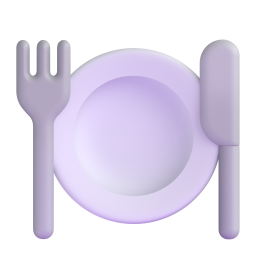
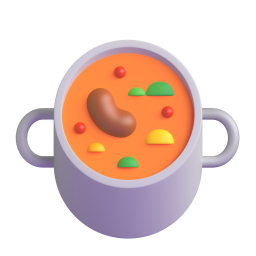
style(proximite): images services haute qualité + dégradés lisibles
- Images Unsplash des 20 services en w=1000 q=85 (au lieu de w=800 q=80)
- Dégradés overlay bottom-up plus lisibles sur les cartes
- Icônes 3D réparation/restaurant retouchées

diff --git a/src/pg/Proximite.tsx b/src/pg/Proximite.tsx
@@ -67,7 +67,7 @@ const getPriorityServices = (stats: any, t: TFn): ServiceCardItem[] => [
     count: stats.boutiques,
     path: "/proximite/boutiques",
     description: t("proximity.svc.boutique.desc"),
-    image: "https://images.unsplash.com/photo-1441986300917-64674bd600d8?auto=format&fit=crop&w=800&q=80",
+    image: "https://images.unsplash.com/photo-1441986300917-64674bd600d8?auto=format&fit=crop&w=1000&q=85",
     logoImage: "/service-icons/logo-boutique.jpeg",
     accent: "#04439e"
   },
@@ -78,7 +78,7 @@ const getPriorityServices = (stats: any, t: TFn): ServiceCardItem[] => [
     count: stats.restaurant,
     path: "/services-proximite?type=restaurant",
     description: t("proximity.svc.restaurant.desc"),
-    image: "https://images.unsplash.com/photo-1517248135467-4c7edcad34c4?auto=format&fit=crop&w=800&q=80",
+    image: "https://images.unsplash.com/photo-1517248135467-4c7edcad34c4?auto=format&fit=crop&w=1000&q=85",
     logoImage: "/service-icons/logo-resto.jpeg",
     accent: "#e85d04"
   },
@@ -89,7 +89,7 @@ const getPriorityServices = (stats: any, t: TFn): ServiceCardItem[] => [
     count: stats.reparation,
     path: "/services-proximite?type=reparation",
     description: t("proximity.svc.reparation.desc"),
-    image: "https://images.unsplash.com/photo-1581092580497-e0d23cbdf1dc?auto=format&fit=crop&w=800&q=80",
+    image: "https://images.unsplash.com/photo-1581092580497-e0d23cbdf1dc?auto=format&fit=crop&w=1000&q=85",
     logoImage: "/service-icons/icon-reparation.png",
     accent: "#ff4000"
   },
@@ -102,7 +102,6 @@ const getPriorityServices = (stats: any, t: TFn): ServiceCardItem[] => [
     description: t("proximity.svc.immobilier.desc"),
     image: "https://images.unsplash.com/photo-1600585154526-990dced4db0d?auto=format&fit=crop&w=1200&q=80",
     logoImage: "/service-icons/logo-immobilier.jpeg",
-    overlayGradient: "linear-gradient(120deg,rgba(3,105,161,0.18) 0%,rgba(191,219,254,0.68) 100%)",
     accent: "#04439e"
   },
   {
@@ -112,7 +111,7 @@ const getPriorityServices = (stats: any, t: TFn): ServiceCardItem[] => [
     count: stats.sante,
     path: "/services-proximite?type=sante",
     description: t("proximity.svc.sante.desc"),
-    image: "https://images.unsplash.com/photo-1576091160550-2173dba999ef?auto=format&fit=crop&w=800&q=80",
+    image: "https://images.unsplash.com/photo-1576091160550-2173dba999ef?auto=format&fit=crop&w=1000&q=85",
     logoImage: "/service-icons/icon-sante.png",
     accent: "#ff4000"
   },
@@ -123,7 +122,7 @@ const getPriorityServices = (stats: any, t: TFn): ServiceCardItem[] => [
     count: stats.construction,
     path: "/services-proximite?type=construction",
     description: t("proximity.svc.construction.desc"),
-    image: "https://images.unsplash.com/photo-1504307651254-35680f356dfd?auto=format&fit=crop&w=800&q=80",
+    image: "https://images.unsplash.com/photo-1504307651254-35680f356dfd?auto=format&fit=crop&w=1000&q=85",
     logoImage: "/service-icons/logo-construction-btp.jpeg",
     accent: "#ff4000"
   },
@@ -134,7 +133,7 @@ const getPriorityServices = (stats: any, t: TFn): ServiceCardItem[] => [
     count: stats.media,
     path: "/services-proximite?type=media",
     description: t("proximity.svc.media.desc"),
-    image: "https://images.unsplash.com/photo-1598488035139-bdbb2231ce04?auto=format&fit=crop&w=800&q=80",
+    image: "https://images.unsplash.com/photo-1598488035139-bdbb2231ce04?auto=format&fit=crop&w=1000&q=85",
     logoImage: "/service-icons/icon-photo-video.png",
     accent: "#04439e"
   },
@@ -145,7 +144,7 @@ const getPriorityServices = (stats: any, t: TFn): ServiceCardItem[] => [
     count: stats.informatique,
     path: "/services-proximite?type=informatique",
     description: t("proximity.svc.informatique.desc"),
-    image: "https://images.unsplash.com/photo-1518770660439-4636190af475?auto=format&fit=crop&w=800&q=80",
+    image: "https://images.unsplash.com/photo-1518770660439-4636190af475?auto=format&fit=crop&w=1000&q=85",
     logoImage: "/service-icons/icon-informatique.png",
     accent: "#04439e"
   }
@@ -159,7 +158,7 @@ const getQuickAccessServices = (stats: any, t: TFn): ServiceCardItem[] => [
     count: stats.vtc,
     path: "/proximite/taxi-moto",
     description: t("proximity.svc.vtc.desc"),
-    image: "https://images.unsplash.com/photo-1601979107535-46367552bc25?auto=format&fit=crop&w=800&q=80",
+    image: "https://images.unsplash.com/photo-1601979107535-46367552bc25?auto=format&fit=crop&w=1000&q=85",
     logoImage: "/service-icons/icon-taxi-moto.png",
     accent: "#04439e"
   },
@@ -171,7 +170,7 @@ const getQuickAccessServices = (stats: any, t: TFn): ServiceCardItem[] => [
     path: "/proximite/livraison",
     description: t("proximity.svc.livraison.desc"),
     trending: stats.livraison > 5,
-    image: "https://images.unsplash.com/photo-1648394794449-5dbe63f6a8b5?auto=format&fit=crop&w=800&q=80",
+    image: "https://images.unsplash.com/photo-1648394794449-5dbe63f6a8b5?auto=format&fit=crop&w=1000&q=85",
     logoImage: "/service-icons/icon-livreur.png",
     accent: "#ff4000"
   }
@@ -185,7 +184,7 @@ const getComplementaryServices = (stats: any, t: TFn): ServiceCardItem[] => [
     description: t("proximity.svc.beaute.desc"),
     count: stats.beaute,
     path: "/beaute",
-    image: "https://images.unsplash.com/photo-1522337360788-8b13dee7a37e?auto=format&fit=crop&w=800&q=80",
+    image: "https://images.unsplash.com/photo-1522337360788-8b13dee7a37e?auto=format&fit=crop&w=1000&q=85",
     logoImage: "/service-icons/icon-beaute.png",
     accent: "#ff4000"
   },
@@ -196,7 +195,7 @@ const getComplementaryServices = (stats: any, t: TFn): ServiceCardItem[] => [
     description: t("proximity.svc.nettoyage.desc"),
     count: stats.nettoyage,
     path: "/services-proximite?type=menage",
-    image: "https://images.unsplash.com/photo-1581578731548-c64695cc6952?auto=format&fit=crop&w=800&q=80",
+    image: "https://images.unsplash.com/photo-1581578731548-c64695cc6952?auto=format&fit=crop&w=1000&q=85",
     logoImage: "/service-icons/icon-nettoyage.png",
     accent: "#04439e"
   },
@@ -207,7 +206,7 @@ const getComplementaryServices = (stats: any, t: TFn): ServiceCardItem[] => [
     description: t("proximity.svc.sport.desc"),
     count: stats.sport,
     path: "/services-proximite?type=sport",
-    image: "https://images.unsplash.com/photo-1534438327276-14e5300c3a48?auto=format&fit=crop&w=800&q=80",
+    image: "https://images.unsplash.com/photo-1534438327276-14e5300c3a48?auto=format&fit=crop&w=1000&q=85",
     logoImage: "/service-icons/icon-sport-fitness.png",
     accent: "#ff4000"
   },
@@ -218,7 +217,7 @@ const getComplementaryServices = (stats: any, t: TFn): ServiceCardItem[] => [
     description: t("proximity.svc.agriculture.desc"),
     count: stats.agriculture,
     path: "/services-proximite?type=agriculture",
-    image: "https://images.unsplash.com/photo-1500937386664-56d1dfef3854?auto=format&fit=crop&w=800&q=80",
+    image: "https://images.unsplash.com/photo-1500937386664-56d1dfef3854?auto=format&fit=crop&w=1000&q=85",
     logoImage: "/service-icons/icon-agriculture.png",
     accent: "#ff4000"
   },
@@ -229,7 +228,7 @@ const getComplementaryServices = (stats: any, t: TFn): ServiceCardItem[] => [
     description: t("proximity.svc.freelance.desc"),
     count: stats.freelance,
     path: "/services-proximite?type=freelance",
-    image: "https://images.unsplash.com/photo-1454165804606-c3d57bc86b40?auto=format&fit=crop&w=800&q=80",
+    image: "https://images.unsplash.com/photo-1454165804606-c3d57bc86b40?auto=format&fit=crop&w=1000&q=85",
     logoImage: "/service-icons/icon-administratif.png",
     accent: "#04439e"
   },
@@ -240,7 +239,7 @@ const getComplementaryServices = (stats: any, t: TFn): ServiceCardItem[] => [
     description: t("proximity.svc.maison.desc"),
     count: stats.maison,
     path: "/services-proximite?type=maison",
-    image: "https://images.unsplash.com/photo-1586023492125-27b2c045efd7?auto=format&fit=crop&w=800&q=80",
+    image: "https://images.unsplash.com/photo-1586023492125-27b2c045efd7?auto=format&fit=crop&w=1000&q=85",
     logoImage: "/service-icons/icon-maison.png",
     accent: "#c2410c"
   },
@@ -251,7 +250,7 @@ const getComplementaryServices = (stats: any, t: TFn): ServiceCardItem[] => [
     description: t("proximity.svc.plomberie.desc"),
     count: stats.plomberie,
     path: "/services-proximite?type=plomberie",
-    image: "https://images.unsplash.com/photo-1607472586893-edb57bdc0e39?auto=format&fit=crop&w=800&q=80",
+    image: "https://images.unsplash.com/photo-1607472586893-edb57bdc0e39?auto=format&fit=crop&w=1000&q=85",
     logoImage: "/service-icons/logo-plomberie.svg",
     accent: "#0E6BA8"
   },
@@ -262,7 +261,7 @@ const getComplementaryServices = (stats: any, t: TFn): ServiceCardItem[] => [
     description: t("proximity.svc.vitrerie.desc"),
     count: stats.vitrerie,
     path: "/services-proximite?type=vitrerie",
-    image: "https://images.unsplash.com/photo-1503387762-592deb58ef4e?auto=format&fit=crop&w=800&q=80",
+    image: "https://images.unsplash.com/photo-1503387762-592deb58ef4e?auto=format&fit=crop&w=1000&q=85",
     logoImage: "/service-icons/logo-vitrerie.svg",
     accent: "#29A7C4"
   },
@@ -273,7 +272,7 @@ const getComplementaryServices = (stats: any, t: TFn): ServiceCardItem[] => [
     description: t("proximity.svc.menuiserie.desc"),
     count: stats.menuiserie,
     path: "/services-proximite?type=menuiserie",
-    image: "https://images.unsplash.com/photo-1504148455328-c376907d081c?auto=format&fit=crop&w=800&q=80",
+    image: "https://images.unsplash.com/photo-1504148455328-c376907d081c?auto=format&fit=crop&w=1000&q=85",
     logoImage: "/service-icons/logo-menuiserie.svg",
     accent: "#B5651D"
   },
@@ -284,7 +283,7 @@ const getComplementaryServices = (stats: any, t: TFn): ServiceCardItem[] => [
     description: t("proximity.svc.soudure.desc"),
     count: stats.soudure,
     path: "/services-proximite?type=soudure",
-    image: "https://images.unsplash.com/photo-1565952511394-1e3e5f1f2f3d?auto=format&fit=crop&w=800&q=80",
+    image: "https://images.unsplash.com/photo-1565952511394-1e3e5f1f2f3d?auto=format&fit=crop&w=1000&q=85",
     logoImage: "/service-icons/logo-soudure.svg",
     accent: "#ff4000"
   }
@@ -533,7 +532,7 @@ export default function Proximite() {
                   <div
                     className="absolute inset-0 pointer-events-none"
                     style={{
-                      background: service.overlayGradient || `linear-gradient(120deg,${service.accent}33 0%,rgba(11,27,51,0.80) 100%)`
+                      background: service.overlayGradient || `linear-gradient(to top, rgba(8,15,30,0.92) 0%, rgba(8,15,30,0.42) 50%, ${service.accent}26 100%)`
                     }}
                   />
                   {/* Content */}
@@ -566,7 +565,7 @@ export default function Proximite() {
                   <div
                     className="absolute inset-0 pointer-events-none"
                     style={{
-                      background: service.overlayGradient || `linear-gradient(120deg,${service.accent}33 0%,rgba(11,27,51,0.80) 100%)`
+                      background: service.overlayGradient || `linear-gradient(to top, rgba(8,15,30,0.92) 0%, rgba(8,15,30,0.42) 50%, ${service.accent}26 100%)`
                     }}
                   />
                   <div className="relative z-10 flex h-full flex-col justify-end p-3.5" style={{ minHeight: 160 }}>
@@ -609,7 +608,7 @@ export default function Proximite() {
                   <div
                     className="absolute inset-0 pointer-events-none"
                     style={{
-                      background: `linear-gradient(120deg,${service.accent}33 0%,rgba(11,27,51,0.78) 100%)`
+                      background: `linear-gradient(to top, rgba(8,15,30,0.92) 0%, rgba(8,15,30,0.42) 50%, ${service.accent}26 100%)`
                     }}
                   />
                   {service.trending && (
@@ -722,7 +721,7 @@ export default function Proximite() {
                   <div
                     className="absolute inset-0 pointer-events-none"
                     style={{
-                      background: `linear-gradient(120deg,${service.accent}33 0%,rgba(11,27,51,0.82) 100%)`
+                      background: `linear-gradient(to top, rgba(8,15,30,0.92) 0%, rgba(8,15,30,0.42) 50%, ${service.accent}26 100%)`
                     }}
                   />
                   <div className="relative z-10 flex h-full flex-col justify-end p-3.5" style={{ minHeight: 150 }}>